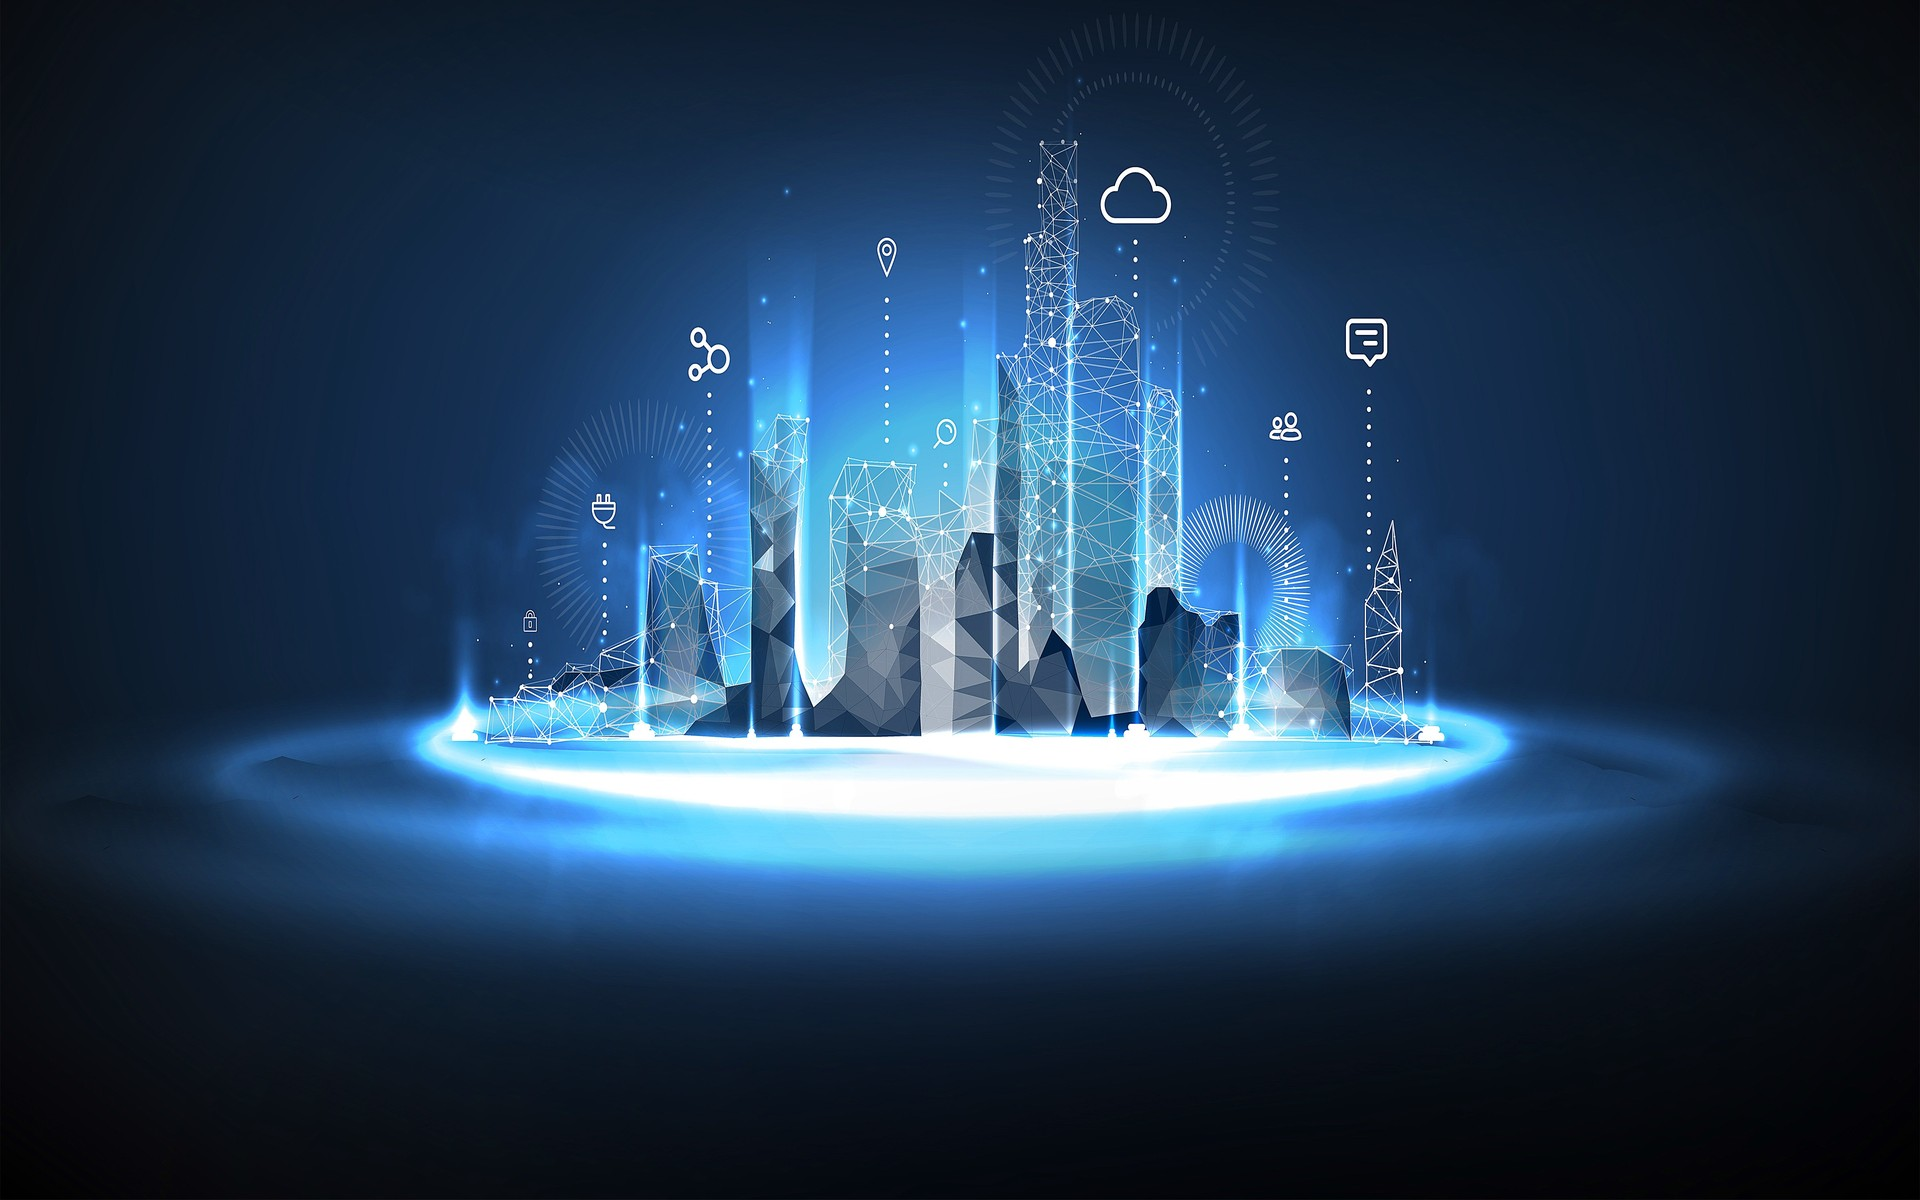
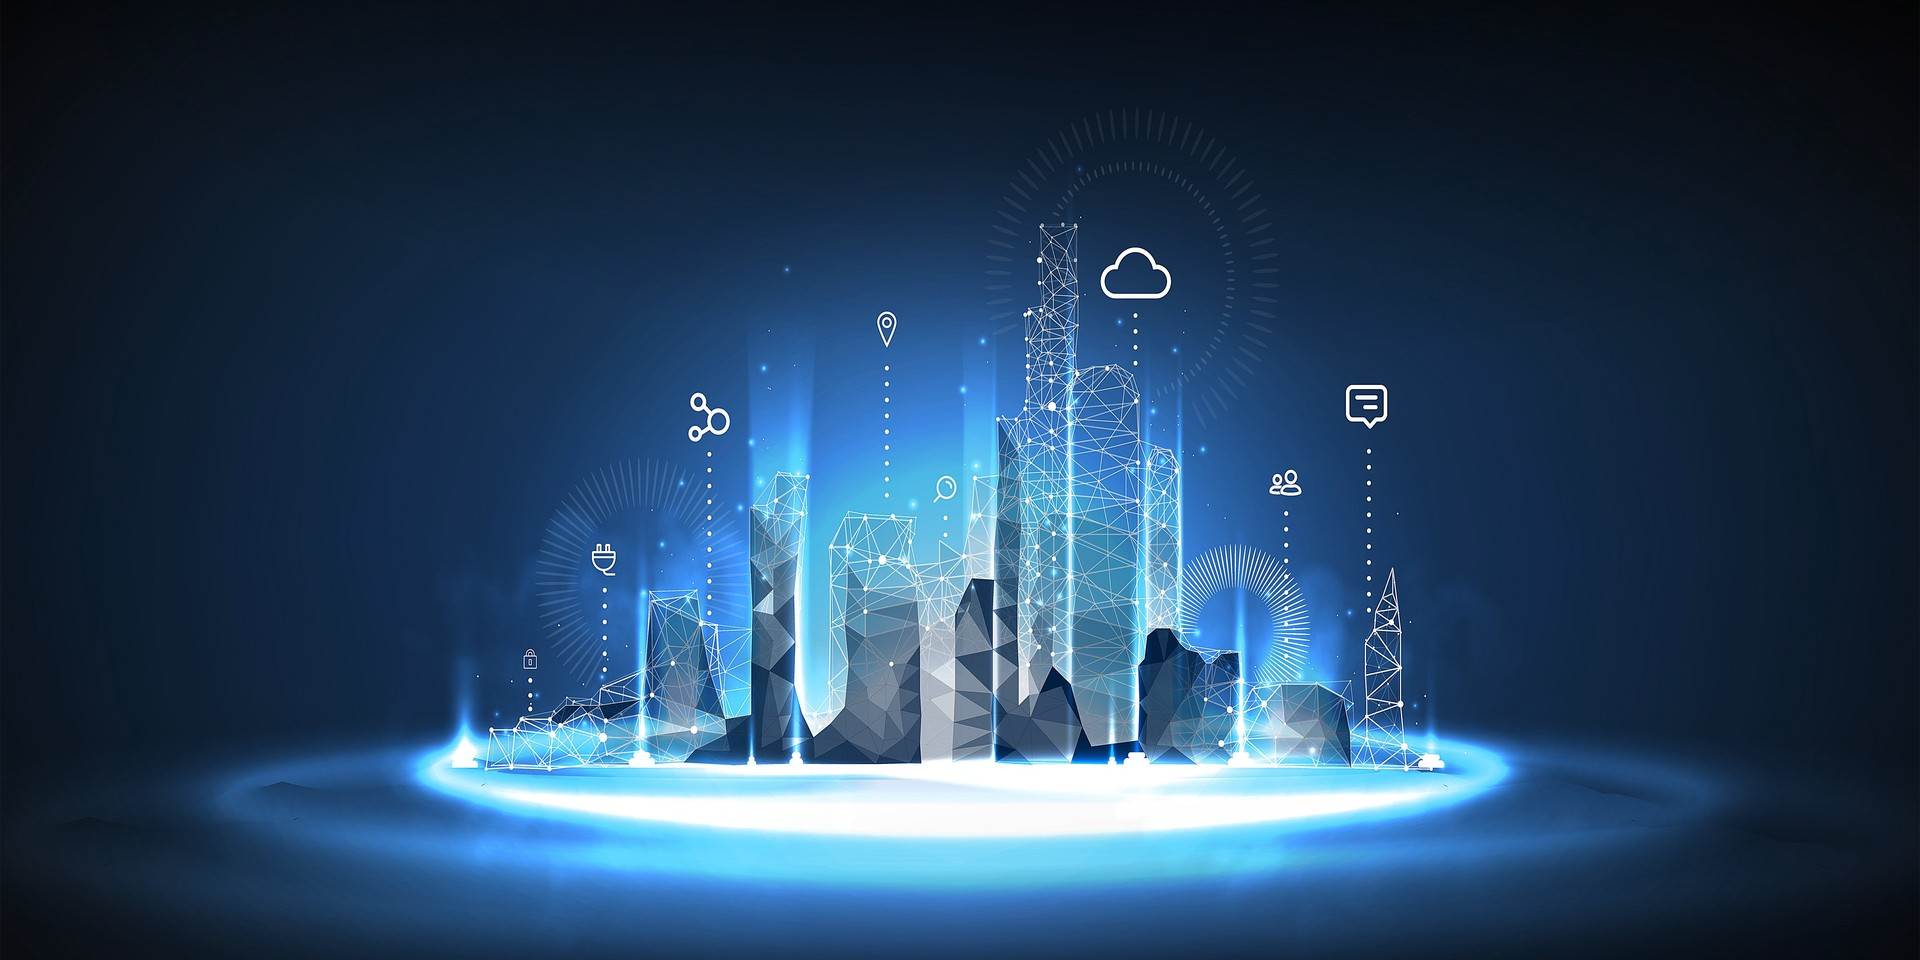
Contact page: remove iMessage bubble decoration; site-wide: recenter hologram-city background
- contact.html: removed the 10-bubble iMessage overlay and its now-unused
  imessage-page class; page now runs the plain neon theme with no bubble
  decoration
- Background images (desktop + mobile): re-cropped from the source photo
  so the skyline's own visual center sits within the frame, instead of a
  crop that included a large dead-void stretch below the glow platform
- background-position changed from 'bottom center' to 'center center' on
  both breakpoints -- the old bottom-anchoring was showing mostly that
  dead void, which pushed the actual skyline up near the top of the
  viewport; now the full skyline (including tallest tower + cloud icon)
  sits centered on the page

diff --git a/contact.html b/contact.html
@@ -10,19 +10,7 @@
 <link href="https://fonts.googleapis.com/css2?family=Playfair+Display:wght@600;700;800&family=Cormorant+Garamond:ital@1&display=swap" rel="stylesheet">
 
 </head>
-<body class="imessage-page manuscript-page">
-<div class="imessage-bg">
-  <div class="imsg-bubble imsg-grey imsg-left" style="top:40px;">Hey! Are you around?</div>
-  <div class="imsg-bubble imsg-blue imsg-right" style="top:130px;">Yeah, what's up?</div>
-  <div class="imsg-bubble imsg-grey imsg-left" style="top:220px;">Loved the new site</div>
-  <div class="imsg-bubble imsg-blue imsg-right" style="top:310px;">Thank you!! 🙏</div>
-  <div class="imsg-bubble imsg-grey imsg-left" style="top:400px;">Can we build one for us?</div>
-  <div class="imsg-bubble imsg-blue imsg-right" style="top:490px;">Absolutely, let's talk</div>
-  <div class="imsg-bubble imsg-grey imsg-left" style="top:580px;">Sending the details now</div>
-  <div class="imsg-bubble imsg-blue imsg-right" style="top:670px;">Got it, on it today</div>
-  <div class="imsg-bubble imsg-grey imsg-left" style="top:760px;">This looks amazing</div>
-  <div class="imsg-bubble imsg-blue imsg-right" style="top:850px;">Appreciate you saying that</div>
-</div>
+<body class="manuscript-page">
 
 <nav class="site-nav">
   <div class="wrap">

diff --git a/assets/css/style.css b/assets/css/style.css
@@ -1301,7 +1301,7 @@ section p {
   background-color: var(--ns-void);
   background-image: url('/assets/images/studio-bg-desktop.jpg');
   background-repeat: no-repeat;
-  background-position: bottom center;
+  background-position: center center;
   background-size: cover;
 }
 
@@ -1320,7 +1320,7 @@ section p {
 @media (max-width: 720px) {
   .manuscript-page::before {
     background-image: url('/assets/images/studio-bg-mobile.jpg');
-    background-position: bottom center;
+    background-position: center center;
     background-size: cover;
   }
 }
